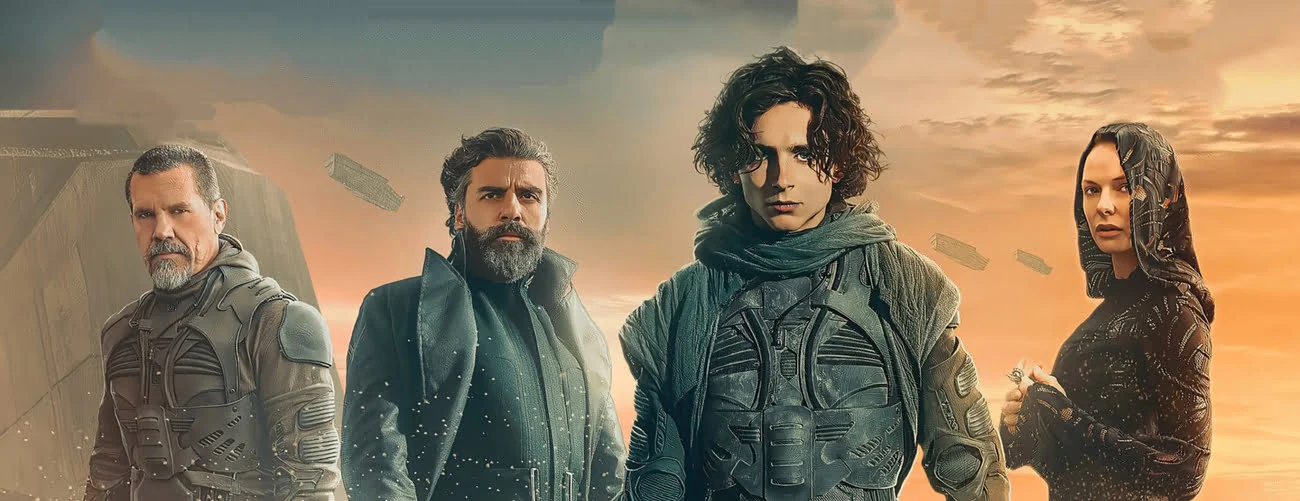
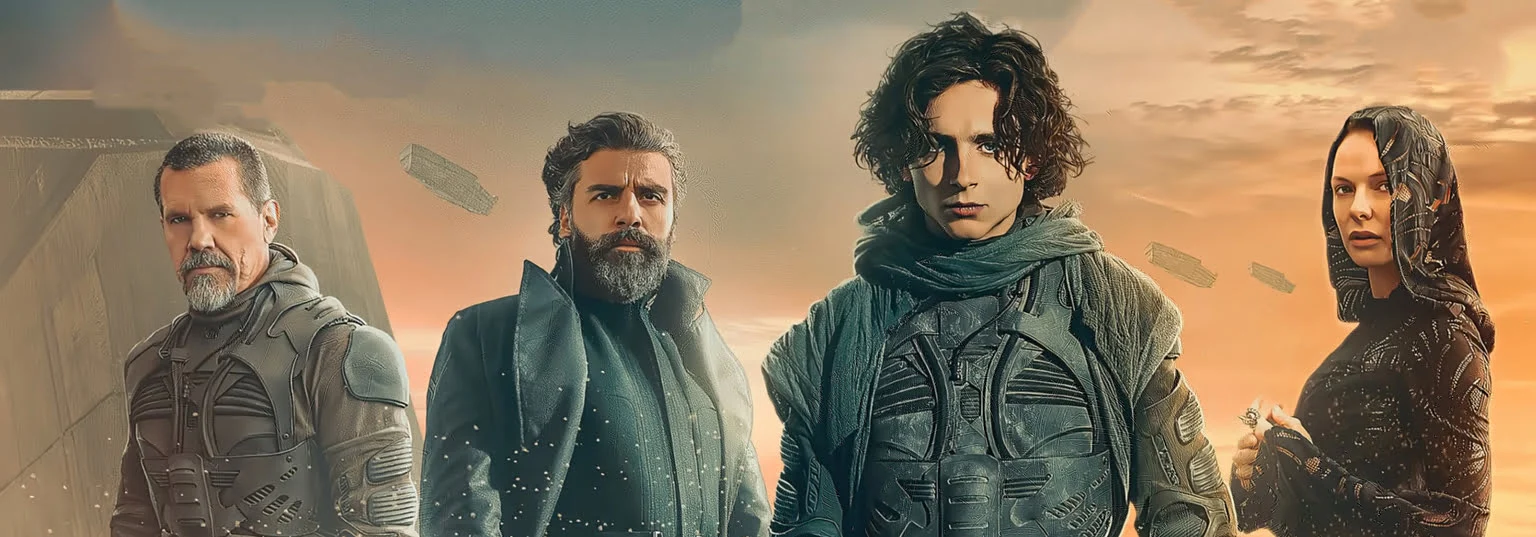
pics_sizes

diff --git a/app/Http/Controllers/Back/Admin/Movies/UpdateController.php b/app/Http/Controllers/Back/Admin/Movies/UpdateController.php
@@ -20,7 +20,7 @@ class UpdateController extends Controller
         if(isset($data['poster']) && $data['poster'] !=null){
             $poster_path = '/posters'.'/poster'.$data['kinopoisk_id'].'.'.$data['poster']->getClientOriginalExtension();
             $data['poster'] = Image::make($data['poster'])
-                ->fit(342, 500)
+                ->fit(250, 404)
                 ->save(storage_path('/app/public/movies/posters'.'/poster'.$data['kinopoisk_id'].'.'.$data['poster']->getClientOriginalExtension()));
             $data['poster'] = $poster_path;
         }else{
@@ -30,7 +30,7 @@ class UpdateController extends Controller
         if(isset($data['backdrop']) && $data['backdrop'] !=null){
             $backdrop_path = '/backdrops'.'/backdrop'.$data['kinopoisk_id'].'.'.$data['backdrop']->getClientOriginalExtension();
             $data['backdrop'] = Image::make($data['backdrop'])
-                ->fit(1300, 449)
+                ->fit(1535, 585)
                 ->save(storage_path('/app/public/movies/backdrops'.'/backdrop'.$data['kinopoisk_id'].'.'.$data['backdrop']->getClientOriginalExtension()));
         $data['backdrop'] = $backdrop_path;
         }else{

diff --git a/app/Http/Controllers/Back/Admin/Collections/UpdateController.php b/app/Http/Controllers/Back/Admin/Collections/UpdateController.php
@@ -22,7 +22,7 @@ class UpdateController extends Controller
                 File::delete(storage_path('app/public/collections/posters/' . $collection->poster));
             $image_name = Carbon::now()->getTimestampMs() . '.' . $data['poster']->getClientOriginalExtension();
             Image::make($data['poster'])
-                ->fit(342, 500)
+                ->fit(250, 404)
                 ->save(storage_path('/app/public/collections/posters/' . $image_name));
             $data['poster'] = $image_name;
         } else {
@@ -63,7 +63,7 @@ class UpdateController extends Controller
                     }
                     $image_name = Carbon::now()->getTimestampMs() . '.' . $article['article_image']->getClientOriginalExtension();
                     Image::make($article['article_image'])
-                        ->fit(1300, 400)
+                        ->fit(1535, 585)
                         ->save(storage_path('/app/public/collections/articles/' . $image_name));
                     $article['article_image'] = $image_name;
                 } else {

diff --git a/app/Http/Controllers/Back/Admin/Collections/StoreController.php b/app/Http/Controllers/Back/Admin/Collections/StoreController.php
@@ -20,7 +20,7 @@ class StoreController extends Controller
 
         $image_name = Carbon::now()->getTimestampMs() . '.' . $data['poster']->getClientOriginalExtension();
         Image::make($data['poster'])
-            ->fit(342, 500)
+            ->fit(250, 404)
             ->save(storage_path('/app/public/collections/posters/' . $image_name));
         $data['poster'] = $image_name;
 
@@ -44,7 +44,7 @@ class StoreController extends Controller
             $image_name = Carbon::now()->getTimestampMs() . '.' . $article['article_image']->getClientOriginalExtension();
 
             Image::make($article['article_image'])
-                ->fit(1300, 400)
+                ->fit(1535, 585)
                 ->save(storage_path('/app/public/collections/articles/'. $image_name));
 
             $moviesArr[] = $article['article_movie'];

diff --git a/app/Http/Controllers/Back/Admin/Movies/StoreController.php b/app/Http/Controllers/Back/Admin/Movies/StoreController.php
@@ -20,12 +20,12 @@ class StoreController extends Controller
 
         //Poster Upload
             Image::make($data['poster'])
-                ->fit(342, 500)
+                ->fit(250, 404)
                 ->save(storage_path('/app/public/movies/posters'.'/poster'.$data['kinopoiskId'].'.'.$data['poster']->getClientOriginalExtension()));
         //Backdrop Upload
         if(isset($data['backdrop'])){
             Image::make($data['backdrop'])
-                ->fit(1300, 449)
+                ->fit(1535, 585)
                 ->save(storage_path('/app/public/movies/backdrops'.'/backdrop'.$data['kinopoiskId'].'.'.$data['backdrop']->getClientOriginalExtension()));
         }
 
